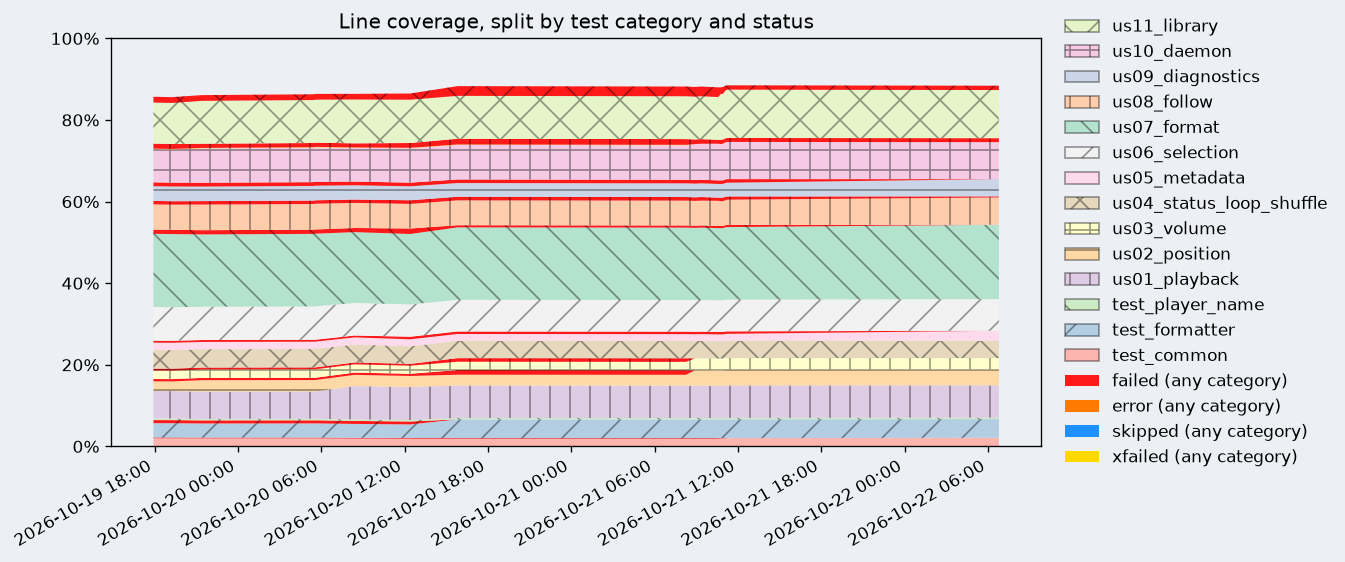
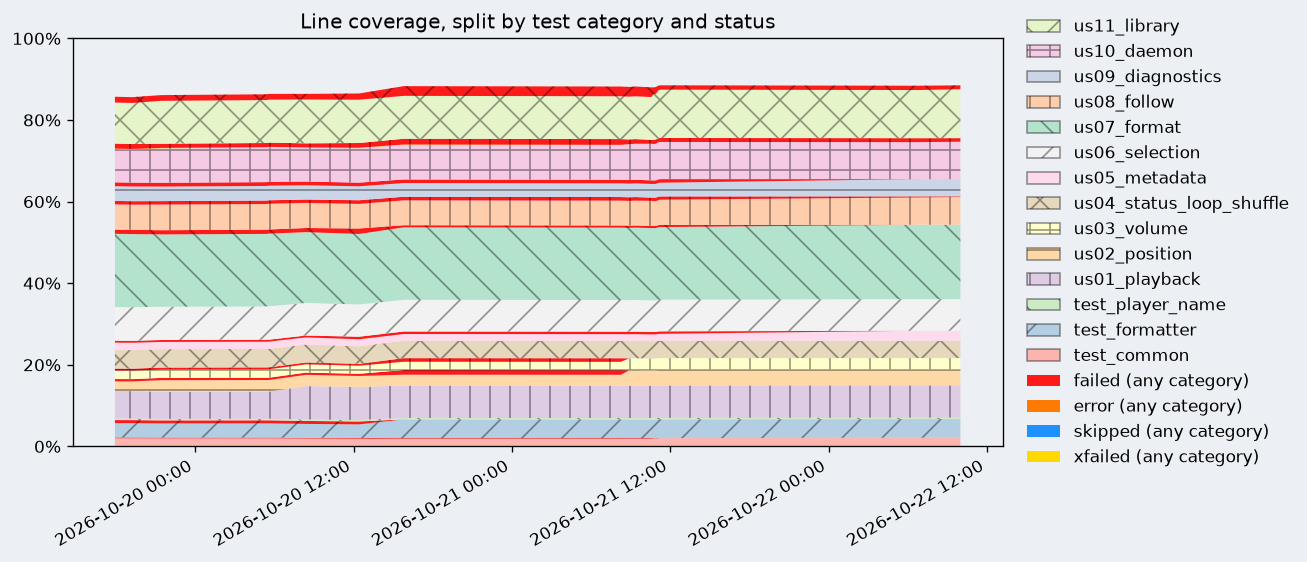
Fix player ordering for -p and the manager's bus matching
- -p ranking: a player is ranked by the first -p entry it matches, in one
  small helper replacing the CCN 17 compare function. While following,
  instances compare by their full instance name; for one-shot commands a
  name listed exactly beats its instances at equal rank.
- The player manager removes the managed player matching both the name
  and the bus of a vanished name, so a same-named player on the other bus
  stays managed.

Following without -p still ignores playerctld shift (known failing,
documented in the user stories).

diff --git a/playerctl/playerctl-cli.c b/playerctl/playerctl-cli.c
@@ -1369,82 +1369,39 @@ player_vanished_callback (PlayerctlPlayerManager *manager,
     }
 }
 
+/* Rank of a player in the -p list; lower sorts first. A player not in the
+ * list ranks at the first %any (last when there is none). */
+static gint
+player_name_rank (const GList *names, const gchar *player)
+{
+  gint rank = INT_MAX;
+  gint any_rank = INT_MAX;
+  gint i = 0;
+
+  for (; names != NULL; names = names->next, i++)
+    {
+      const gchar *name = names->data;
+      if (g_strcmp0 (name, "%any") == 0)
+        {
+          any_rank = MIN (any_rank, i);
+        }
+      else if (pctl_player_name_string_instance_compare (name, player) == 0)
+        {
+          rank = MIN (rank, i);
+        }
+    }
+
+  return rank == INT_MAX ? any_rank : rank;
+}
+
 gint
 player_name_string_compare_func (gconstpointer a, gconstpointer b,
                                  gpointer user_data)
 {
-  const gchar *name_a = a;
-  const gchar *name_b = b;
-  GList *names = user_data;
+  gint rank_a = player_name_rank (user_data, a);
+  gint rank_b = player_name_rank (user_data, b);
 
-  if (g_strcmp0 (name_a, name_b) == 0)
-    {
-      return 0;
-    }
-
-  int a_match_index = -1;
-  int b_match_index = -1;
-
-  int any_index = INT_MAX;
-  int i = 0;
-  GList *l = NULL;
-  for (l = names; l != NULL; l = l->next)
-    {
-      gchar *name = l->data;
-
-      if (g_strcmp0 (name, "%any") == 0)
-        {
-          if (any_index == INT_MAX)
-            {
-              any_index = i;
-            }
-          ++i;
-          continue;
-        }
-
-      if (pctl_player_name_string_instance_compare (name, name_a) == 0)
-        {
-          if (a_match_index == -1)
-            {
-              a_match_index = i;
-            }
-        }
-
-      if (pctl_player_name_string_instance_compare (name, name_b) == 0)
-        {
-          if (b_match_index == -1)
-            {
-              b_match_index = i;
-            }
-        }
-      ++i;
-    }
-
-  if (a_match_index == -1 && b_match_index == -1)
-    {
-      // neither are in the list
-      return 0;
-    }
-
-  if (a_match_index == -1)
-    {
-      // b is in the list
-      return (b_match_index < any_index ? 1 : -1);
-    }
-
-  if (b_match_index == -1)
-    {
-      // a is in the list
-      return (a_match_index < any_index ? -1 : 1);
-    }
-
-  if (a_match_index == b_match_index)
-    {
-      // preserve order
-      return 0;
-    }
-
-  return (a_match_index < b_match_index ? -1 : 1);
+  return (rank_a > rank_b) - (rank_a < rank_b);
 }
 
 gint
@@ -1456,6 +1413,28 @@ player_name_compare_func (gconstpointer a, gconstpointer b, gpointer user_data)
                                           user_data);
 }
 
+/* Like player_name_compare_func, but at the same rank a name listed exactly
+ * (-p mpv) beats its instances, so a command picks it first. */
+static gint
+player_name_exact_first_compare_func (gconstpointer a, gconstpointer b,
+                                      gpointer user_data)
+{
+  const PlayerctlPlayerName *name_a = a;
+  const PlayerctlPlayerName *name_b = b;
+  gint result = player_name_compare_func (a, b, user_data);
+  if (result != 0)
+    {
+      return result;
+    }
+
+  GCompareFunc equal = (GCompareFunc)g_strcmp0;
+  gboolean exact_a
+      = g_list_find_custom (user_data, name_a->instance, equal) != NULL;
+  gboolean exact_b
+      = g_list_find_custom (user_data, name_b->instance, equal) != NULL;
+  return exact_b - exact_a;
+}
+
 gint
 player_compare_func (gconstpointer a, gconstpointer b, gpointer user_data)
 {
@@ -1463,8 +1442,8 @@ player_compare_func (gconstpointer a, gconstpointer b, gpointer user_data)
   PlayerctlPlayer *player_b = PLAYERCTL_PLAYER (b);
   gchar *name_a = NULL;
   gchar *name_b = NULL;
-  g_object_get (player_a, "player-name", &name_a, NULL);
-  g_object_get (player_b, "player-name", &name_b, NULL);
+  g_object_get (player_a, "player-instance", &name_a, NULL);
+  g_object_get (player_b, "player-instance", &name_b, NULL);
   gint result = player_name_string_compare_func (name_a, name_b, user_data);
   g_free (name_a);
   g_free (name_b);
@@ -1545,7 +1524,8 @@ main (int argc, char *argv[])
   g_object_get (manager, "player-names", &available_players, NULL);
   available_players = g_list_copy (available_players);
   available_players = g_list_sort_with_data (
-      available_players, player_name_compare_func, (gpointer)player_names);
+      available_players, player_name_exact_first_compare_func,
+      (gpointer)player_names);
 
   PlayerctlPlayerName playerctld_name = {
     .instance = "playerctld",
@@ -1567,7 +1547,8 @@ main (int argc, char *argv[])
           available_players,
           pctl_player_name_new ("playerctld", PLAYERCTL_SOURCE_DBUS_SESSION));
       available_players = g_list_sort_with_data (
-          available_players, player_name_compare_func, (gpointer)player_names);
+          available_players, player_name_exact_first_compare_func,
+          (gpointer)player_names);
     }
 
   gboolean has_selected = FALSE;

diff --git a/test/us11_library/test_us11_11_manager_lifecycle.py b/test/us11_library/test_us11_11_manager_lifecycle.py
@@ -162,6 +162,39 @@ async def test_same_name_on_both_buses_vanishes_independently(
     assert await proc.queue.get() == 'name-vanished twin dbus-system'
 
 
+async def test_vanishing_unmanaged_name_keeps_players_on_both_buses(
+    gi_start, mpris_factory
+):
+    [_, other] = await mpris_factory('twin', 'other')
+    await mpris_factory('twin', system=True)
+    proc = await gi_start(
+        compose(
+            AUTO_MANAGE,
+            """
+        def start():
+            for name in manager.props.player_names:
+                if name.name != 'other':
+                    manager.manage_player(Playerctl.Player.new_from_name(name))
+            out('managed', len(manager.props.players))
+
+        GLib.idle_add(start)
+        run_loop()
+    """,
+        )
+    )
+    await expect(
+        proc,
+        'player-appeared dbus-session/twin',
+        'player-appeared dbus-system/twin',
+    )
+    assert await proc.queue.get() == 'managed 2'
+
+    await other.disconnect()
+
+    # no managed player has that name, so nothing but the name vanishes
+    assert await proc.queue.get() == 'name-vanished other dbus-session'
+
+
 async def test_name_appearing_while_players_are_managed(
     gi_start, mpris_factory
 ):

diff --git a/playerctl/playerctl-player-manager.c b/playerctl/playerctl-player-manager.c
@@ -265,8 +265,9 @@ manager_remove_managed_player_by_name (PlayerctlPlayerManager *manager,
     {
       PlayerctlPlayer *player = PLAYERCTL_PLAYER (l->data);
       gchar *instance = pctl_player_get_instance (player);
-      // TODO match bus type
-      if (g_strcmp0 (instance, player_name->instance) == 0)
+      PlayerctlPlayerName managed = { .instance = instance };
+      g_object_get (player, "source", &managed.source, NULL);
+      if (pctl_player_name_compare (&managed, player_name) == 0)
         {
           manager->priv->players
               = g_list_remove_link (manager->priv->players, l);

diff --git a/doc/USER_STORIES.md b/doc/USER_STORIES.md
@@ -105,8 +105,8 @@ Personas: **user** (desktop/hotkeys), **bar author** (polybar/waybar scripts), *
 | 8.7  | As a user, I want `-F` rejected on control commands                                                                                                                                    | [x]  | [x]    | [test_us08_07_reject_on_control_commands.py](../test/us08_follow/test_us08_07_reject_on_control_commands.py) — `play`, `next`, `open` etc. are rejected; `position`/`volume`/`loop`/`shuffle` with an argument are rejected too                                                                                                                                                                                                                                                                                                               |
 | 8.8  | As a bar author, I want a template that fails while rendering during `-F` to stop follow mode with exit code 1                                                                         | [x]  | [~]    | [test_us08_08_runtime_errors.py](../test/us08_follow/test_us08_08_runtime_errors.py) — division by zero after a property change should exit 1 with `Error while executing command` (FAILS: `managed_player_properties_callback` discards the error, so follow keeps running; only the tick callback reports it) Extra cases: a template using `position` does report the error through the tick (passes); errors for a player that appears, for the player left after another vanished, and for one present at start are reported with exit 1 |
 | 8.9  | As a bar author, I want `-F` to honour `-i/--ignore-player` and the `-p` selection for players that appear later                                                                       | [x]  | [x]    | [test_us08_09_ignore_and_select.py](../test/us08_follow/test_us08_09_ignore_and_select.py)                                                                                                                                                                                                                                                                                                                                                                                                                                                    |
-| 8.10 | As a bar author, I want follow mode to cope with a player name that is released and re-acquired quickly, taken over by another owner, queued behind the owner, or served on both buses | [x]  | [~]    | [test_us08_10_reacquired_names.py](../test/us08_follow/test_us08_10_reacquired_names.py) — **known failure:** with the same name on both buses, the vanishing system-bus player removes the session-bus player (`manager_remove_managed_player_by_name` ignores the bus type)                                                                                                                                                                                                                                                                 |
-| 8.11 | As a bar author, I want follow mode to keep the `-p` priority order (instances, `%any`) while players update, appear and vanish, and to use the most recent update with `-a`           | [x]  | [~]    | [test_us08_11_player_ordering.py](../test/us08_follow/test_us08_11_player_ordering.py) — **known failure:** `player_compare_func` ranks by the `player-name` property, which has no instance suffix, so `-p name.instance1,name` does not put the instance first                                                                                                                                                                                                                                                                              |
+| 8.10 | As a bar author, I want follow mode to cope with a player name that is released and re-acquired quickly, taken over by another owner, queued behind the owner, or served on both buses | [x]  | [x]    | [test_us08_10_reacquired_names.py](../test/us08_follow/test_us08_10_reacquired_names.py) — also: with the same name on both buses, the vanishing system-bus player leaves the session-bus player                                                                                                                                                                                                                                                                                                                                              |
+| 8.11 | As a bar author, I want follow mode to keep the `-p` priority order (instances, `%any`) while players update, appear and vanish, and to use the most recent update with `-a`           | [x]  | [x]    | [test_us08_11_player_ordering.py](../test/us08_follow/test_us08_11_player_ordering.py) — also: `-p name.instance1,name` puts the instance first                                                                                                                                                                                                                                                                                                                                                                                               |
 | 8.12 | As a bar author, I want follow mode to cope with players that answer slowly or vanish while they are being connected                                                                   | [x]  | [x]    | [test_us08_12_slow_and_vanishing_players.py](../test/us08_follow/test_us08_12_slow_and_vanishing_players.py)                                                                                                                                                                                                                                                                                                                                                                                                                                  |
 | 8.13 | As a bar author, I want follow mode to handle players that have no metadata yet and to re-render (and tick) for players that appear after it started                                   | [x]  | [x]    | [test_us08_13_players_without_data.py](../test/us08_follow/test_us08_13_players_without_data.py)                                                                                                                                                                                                                                                                                                                                                                                                                                              |
 
@@ -126,8 +126,8 @@ Personas: **user** (desktop/hotkeys), **bar author** (polybar/waybar scripts), *
 |-------|---------------------------------------------------------------------------------------------------------------------------------------------------------------------------------------------------------------------------------|------|--------|---------------------------------------------------------------------------------------------------------------------------------------------------------------------------------------------------------------------------------------------------------------------------------------------------------------------------------------------------------------------------------------------------------------------------------------------------------------------------------------------------------------------------------------------------------------------------------------------------------------------|
 | 10.1  | As a user, I want playerctld to make the player with the most recent property change the active one                                                                                                                             | [x]  | [x]    | [test_us10_01_active_player.py](../test/us10_daemon/test_us10_01_active_player.py) — also: a `Position`-only or unchanged `PropertiesChanged` does not switch the active player, `Seeked` from another player does, an inactive player vanishing emits nothing and keeps the order, a name owner replaced without a gap stays managed                                                                                                                                                                                                                                                                               |
 | 10.2  | As a user, I want playerctld to appear as an MPRIS player that forwards calls, properties and signals to the active player                                                                                                      | [x]  | [x]    | [test_us10_02_mpris_proxy.py](../test/us10_daemon/test_us10_02_mpris_proxy.py) — `play`, metadata follow, error forwarding, Seeked, and TrackList/Playlists calls and properties are tested. `TrackAdded` and `PlaylistChanged` are not forwarded: `player_signal_proxy_callback` drops every signal outside the Player and Properties interfaces (the two tests fail) — also: Root `Raise`/`Quit`, `Properties.Get/GetAll/Set` on Player/Root, `GetAll` on `org._5mdt.playerctld`, CLI commands through the daemon                                                                                                 |
-| 10.3  | As a user, I want `playerctld shift` / `unshift` to cycle the active player, with exit code 1 when there is none                                                                                                                | [x]  | [x]    | [test_us10_03_shift_unshift.py](../test/us10_daemon/test_us10_03_shift_unshift.py) — also: single player (no signals), "Cannot shift/unshift: ..." message on failure                                                                                                                                                                                                                                                                                                                                                                                                                                               |
-| 10.4  | As an integrator, I want a `PlayerNames` property on `org._5mdt.playerctld`                                                                                                                                                     | [x]  | [x]    | [test_us10_04_player_names.py](../test/us10_daemon/test_us10_04_player_names.py)                                                                                                                                                                                                                                                                                                                                                                                                                                                                                                                                    |
+| 10.3  | As a user, I want `playerctld shift` / `unshift` to cycle the active player, with exit code 1 when there is none                                                                                                                | [x]  | [x]    | [test_us10_03_shift_unshift.py](../test/us10_daemon/test_us10_03_shift_unshift.py) — also: single player (no signals), "Cannot shift/unshift: ..." message on failure. **Known failure:** `--follow` without `-p` does not print the new player after `shift` (the follower manages every player and does not watch the order playerctld announces)                                                                                                                                                                                                                                                                 |
+| 10.4  | As an integrator, I want a `PlayerNames` property on `org._5mdt.playerctld`                                                                                                                                                     | [x]  | [x]    | [test_us10_04_player_names.py](../test/us10_daemon/test_us10_04_player_names.py) — also: `-p mpv` picks `mpv` before `mpv.instance123` even when the instance was active last                                                                                                                                                                                                                                                                                                                                                                                                                                       |
 | 10.5  | As an integrator, I want `ActivePlayerChangeBegin`/`End` signals                                                                                                                                                                | [x]  | [x]    | [test_us10_05_active_player_change_signals.py](../test/us10_daemon/test_us10_05_active_player_change_signals.py) — also: full `PropertiesChanged` (Player/Root/TrackList/Playlists) + `Seeked` for the new active player, correct interface names in the invalidation when the last player leaves. **Known failures:** a player that appears while playerctld runs never gets `tracklist/playlists.supported` set (only the startup scan does), so its TrackList/Playlists properties are not announced; `context_emit_active_player_changed` names the Root interface in the TrackList and Playlists invalidations |
 | 10.6  | As an existing user, I want the legacy `com.github.altdesktop.playerctld` interface to keep working and be marked deprecated                                                                                                    | [x]  | [x]    | [test_us10_06_legacy_interface.py](../test/us10_daemon/test_us10_06_legacy_interface.py)                                                                                                                                                                                                                                                                                                                                                                                                                                                                                                                            |
 | 10.7  | As an existing user, I want a one-time warning when the legacy interface is used, and a fallback to it in `shift`/`unshift` for older daemons                                                                                   | [x]  | [x]    | [test_us10_07_legacy_warning_fallback.py](../test/us10_daemon/test_us10_07_legacy_warning_fallback.py)                                                                                                                                                                                                                                                                                                                                                                                                                                                                                                              |
@@ -156,23 +156,23 @@ Personas: **user** (desktop/hotkeys), **bar author** (polybar/waybar scripts), *
 | 11.8  | As a developer, I want errors from the player to surface as `GLib.Error` and the setters to work for players on the system bus                                                                                  | [x]  | [x]    | [test_us11_08_errors_and_system_bus.py](../test/us11_library/test_us11_08_errors_and_system_bus.py) — **known failure:** `set_volume`, `set_loop_status` and `set_shuffle` call `g_bus_get_sync(G_BUS_TYPE_SESSION)` so they cannot reach a system-bus player                                                                                                                                                                                                                                                                                                                                                                                                 |
 | 11.9  | As a developer, I want the library to cope with players that send PropertiesChanged inconsistently (Spotify-style cache bypass, invalidated properties, missing track ids, wrong types, unknown status strings) | [x]  | [x]    | [test_us11_09_inconsistent_properties.py](../test/us11_library/test_us11_09_inconsistent_properties.py) — **known failures:** properties listed as invalidated are dropped from the proxy cache and never re-fetched (`Volume`, `Shuffle`, `CanPlay` read as defaults); `Volume`/`Shuffle`/`Metadata` changes with a wrong D-Bus type still emit signals with garbage values (`playerctl_player_properties_changed_callback` does no type check); `cached_track_id` is not initialised at startup so the first Metadata change with the same track resets the position; a missing or unknown initial `PlaybackStatus` leaves `cached_status` at 0 (`PLAYING`) |
 | 11.10 | As a developer, I want the library to survive players that vanish mid-call or answer slowly, failing or not at all                                                                                              | [x]  | [x]    | [test_us11_10_vanishing_players.py](../test/us11_library/test_us11_10_vanishing_players.py) — **known failure:** `get_title`/`get_artist`/`get_album` pass `NULL` instead of their `err` to `playerctl_player_print_metadata_prop`, so a failed metadata call returns `None` with no `GLib.Error`                                                                                                                                                                                                                                                                                                                                                             |
-| 11.11 | As a developer, I want `PlayerctlPlayerManager` to track names and players through re-appearing names, instances, both buses, many players and a sort function                                                  | [x]  | [x]    | [test_us11_11_manager_lifecycle.py](../test/us11_library/test_us11_11_manager_lifecycle.py) — **known failure:** `manager_remove_managed_player_by_name` ignores the bus type (`TODO match bus type`), so a vanishing system-bus name removes the session-bus player of the same name                                                                                                                                                                                                                                                                                                                                                                         |
+| 11.11 | As a developer, I want `PlayerctlPlayerManager` to track names and players through re-appearing names, instances, both buses, many players and a sort function                                                  | [x]  | [x]    | [test_us11_11_manager_lifecycle.py](../test/us11_library/test_us11_11_manager_lifecycle.py) — also: a vanishing system-bus name leaves the session-bus player of the same name                                                                                                                                                                                                                                                                                                                                                                                                                                                                                |
 | 11.12 | As a developer, I want to connect to a player with `load-properties` off so that a slow player does not delay me                                                                                                | [x]  | [x]    | [test_us11_12_load_properties.py](../test/us11_library/test_us11_12_load_properties.py) — default on, creation does not wait for `GetAll`, each `can-*` is read from the player on every read (never stale), a failed `Get` reads as false                                                                                                                                                                                                                                                                                                                                                                                                                    |
 
 ---
 
 ## Coverage summary
 - **Stories:** 84 (57 original + 25 added in rounds 2 and 3 + 2 for issue #10).
-- **Tested:** 78 fully, 6 partly (7.2, 7.9, 8.7, 8.8, 8.10, 8.11), none missing.
-- **pytest suite:** 897 pass, 27 fail, 1 xfail (10.9). Every failure is a suspected bug in the C code.
+- **Tested:** 80 fully, 4 partly (7.2, 7.9, 8.7, 8.8), none missing.
+- **pytest suite:** 901 pass, 23 fail, 1 xfail (10.9). Every failure is a suspected bug in the C code.
 - **C unit tests (`test/c`, `make test-c`):** 80 `g_test` cases for formatter, common helpers and player-name internals; all pass with `make test-c`, 2 (`/formatter/fn/default`, `/formatter/expand/format-direct`) fail under `make test-asan`.
 - **Line coverage (gcov, `make coverage`):** 86% overall (65% at baseline), branches 77%. cli 93%, common 96%, formatter 99%, player-name 100%, manager 87%, player 78%, daemon 73%. Follow-mode `playerctl` and `playerctld` are stopped with SIGTERM, so their gcov data may be partly lost and those numbers are understated. Reports: `build/coverage/report.html`.
 - **Known failing tests (suspected C bugs):**
-  - CLI: volume not clamped or validated (3.2, 3.3); `position` accepts trailing garbage and negative absolutes (2.2, 2.4); bad CLI option exits 0 (9.5); `-f` accepted on `loop Track`/`shuffle On` (7.2); `-F` accepted on `position`/`volume`/`loop`/`shuffle` with an argument (8.7); runtime format errors in follow mode are swallowed (8.8); follow ranks `-p name.instance` by player name instead of instance (8.11).
+  - CLI: volume not clamped or validated (3.2, 3.3); `position` accepts trailing garbage and negative absolutes (2.2, 2.4); bad CLI option exits 0 (9.5); `-f` accepted on `loop Track`/`shuffle On` (7.2); `-F` accepted on `position`/`volume`/`loop`/`shuffle` with an argument (8.7); runtime format errors in follow mode are swallowed (8.8).
   - Formatter: int64 x int64 multiplication reports overflow, int64 add overflow check misses MIN+MIN, unary minus on uint64 rejected, missing operands trigger GLib criticals, `duration` argument-count error says "uc" (7.9, C tests).
   - Common: `pctl_print_gvariant(NULL)` criticals; `find_instance` argument order reversed (11.2, C tests).
-  - Daemon: TrackList/Playlists signals dropped (10.2); proxied error message lost (10.11); wrong interface names in invalidations when the last player leaves, and TrackList/Playlists not announced for players that appear later (10.5, 10.16); late TrackList/Playlists replies demote the new active player (10.13); a player whose Root `GetAll` failed can become active and crash playerctld with SIGSEGV (10.14).
-  - Library: `Player.new('name')` does not match `name.instanceN` (11.2); setters use the session bus for system-bus players (11.8); position not reset before the `stop` handler runs (11.7); invalidated properties never re-fetched, changed properties not type-checked, `cached_track_id` uninitialised, missing initial PlaybackStatus treated as Playing, `get_title`/`get_artist`/`get_album` swallow errors (11.9); manager removes the wrong player when the same name vanishes on the other bus (11.11, 8.10).
+  - Daemon: TrackList/Playlists signals dropped (10.2); proxied error message lost (10.11); wrong interface names in invalidations when the last player leaves, and TrackList/Playlists not announced for players that appear later (10.5, 10.16); late TrackList/Playlists replies demote the new active player (10.13); `--follow` without `-p` ignores `playerctld shift` (10.3); a player whose Root `GetAll` failed can become active and crash playerctld with SIGSEGV (10.14).
+  - Library: `Player.new('name')` does not match `name.instanceN` (11.2); setters use the session bus for system-bus players (11.8); position not reset before the `stop` handler runs (11.7); invalidated properties never re-fetched, changed properties not type-checked, `cached_track_id` uninitialised, missing initial PlaybackStatus treated as Playing, `get_title`/`get_artist`/`get_album` swallow errors (11.9).
 - **Audit tests (`build/c-code-audit.md`):** written before the fixes, they fail until the bug is fixed: `us02_05` and `us03_04` (out of range, non-finite and empty numbers), `us08_14` (follow signal connected once), `us10_18` (invalidation interface names, late player interfaces, wrongly typed `Position`, player vanishing during `GetAll`), `us11_13` (instance-only match, failing metadata fetch, errors from `get_artist`/`get_title`/`get_album`, wrongly typed changes, `PropertiesChanged` leak) and the new formatter cases in `test/c/test_formatter.c` (`trunc`, `duration` range, `INT64_MIN` negation and division, the 1027 limit message).
 - **Not testable:** `PlayerManager.manage_player(None)` and manager `set_property` through GI; internal `g_error` invariants and `assert(false)` branches; the fatal `g_error` reading the `metadata` property after a failed Get; startup scan against a player withholding a reply (25 s D-Bus timeout vs the 5 s test limit); a `Get` that never answers in the CLI (same timeout); `get_player_command` error in `player_appeared_callback`.
 

diff --git a/doc/CHANGELOG.md b/doc/CHANGELOG.md
@@ -18,6 +18,8 @@
 - `position` no longer crashes when a player reports a `mpris:trackid` that is not a valid object path, such as Totem (#33)
 - `playerctld` no longer aborts on an unexpected `PropertiesChanged`, which crashed it when Rhythmbox started playing (#24)
 - No abort on a malformed reply to `Properties.Get`, which crashed `metadata --follow` with Harmonoid (#44)
+- `-p mpv` selects `mpv` before `mpv.instance123` when both run and the daemon lists the instance first, and `-p name.instance1,name` ranks the instance by its full instance name while following
+- Library: `PlayerctlPlayerManager` removes the player of the bus whose name vanished, not the same name on the other bus (`player-vanished` and `name-vanished` no longer disagree)
 
 ### Features
 
